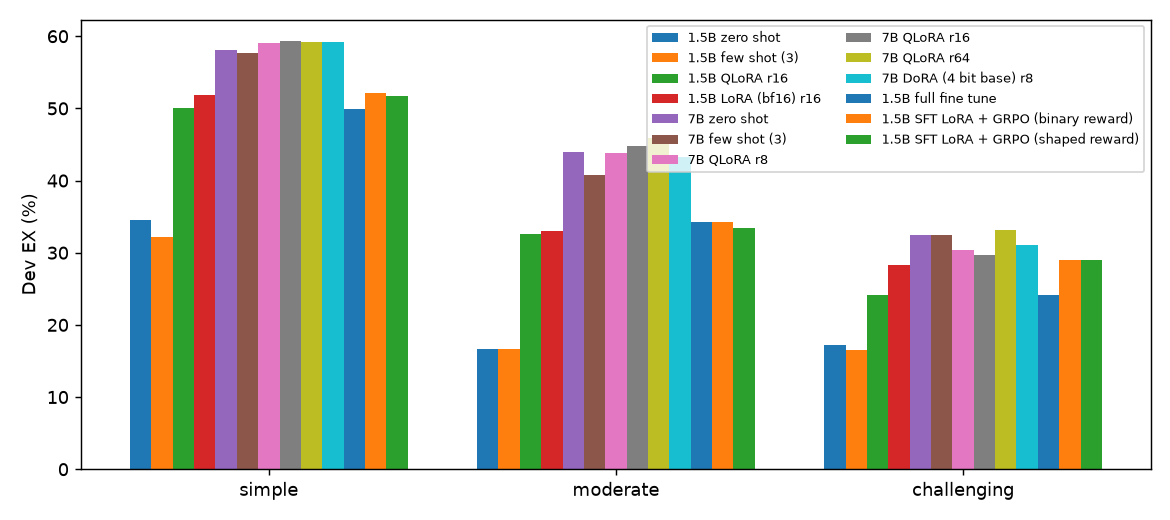
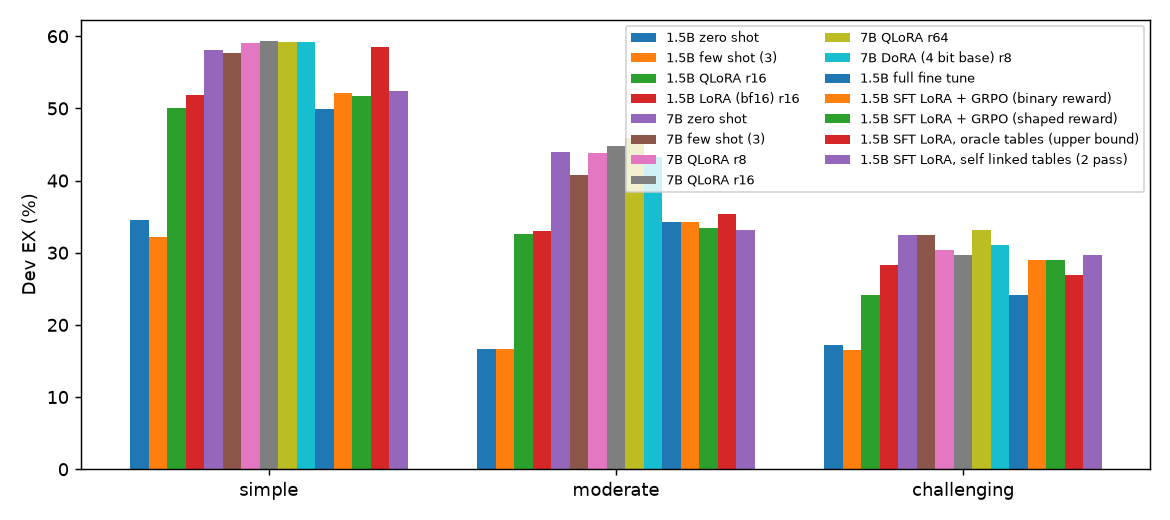
Schema linking: oracle table upper bound (+4.6 dev) and two pass self linking (+0.5 dev, not significant)

diff --git a/querycraft/report.py b/querycraft/report.py
@@ -24,7 +24,7 @@ def _j(p):
 def collect():
     rows = []
     paths = Path("configs").glob("[lrg]*/*.yaml")  # local + rented, then grpo (built on the local SFT run) last
-    for cfg_path in sorted(paths, key=lambda p: (p.parent.name == "grpo", str(p))):
+    for cfg_path in sorted(paths, key=lambda p: (p.parent.name in ("grpo", "linking"), str(p))):
         cfg = load_config(cfg_path)
         d = RUNS_DIR / cfg["name"]
         res, tm, em = _j(d / "results.json"), _j(d / "train_meta.json"), _j(d / "eval_meta.json")
@@ -39,6 +39,10 @@ def _size(model):
 def _label(r):
     c = r["cfg"]
     t = c.get("train")
+    if c["prompt"].get("linking") == "oracle":
+        return f"{_size(c['model'])} SFT LoRA, oracle tables (upper bound)"
+    if c["prompt"].get("linking") == "self":
+        return f"{_size(c['model'])} SFT LoRA, self linked tables (2 pass)"
     if not t:
         return f"{_size(c['model'])} {'few shot (3)' if c['prompt'].get('shots') else 'zero shot'}"
     if t["method"] == "grpo":
@@ -124,7 +128,7 @@ def tables(rows):
                     tp = r["train"].get("trainable_params") if r["train"] else None
                     out.append(f"| {_label(r)} | " + " | ".join(cells) + f" | {tp or 'all'} | {r['train'].get('peak_vram_gb', '') if r['train'] else ''} |")
                 out.append("")
-        zs = {_size(r["cfg"]["model"]): r for r in done if not r["cfg"].get("train") and not r["cfg"]["prompt"].get("shots")}
+        zs = {_size(r["cfg"]["model"]): r for r in done if not r["cfg"].get("train") and not r["cfg"]["prompt"].get("shots") and not r["cfg"]["prompt"].get("linking")}
         ft = [r for r in done if r["cfg"].get("train") and r["cfg"]["train"]["method"] != "grpo" and _size(r["cfg"]["model"]) in zs]
         if ft:
             out.append("### Does fine tuning beat zero shot? Paired against the same size zero shot model\n")
@@ -141,18 +145,24 @@ def tables(rows):
                     cells += [z["res"][split]["ex"], r["res"][split]["ex"], b, a, _sign_p(a, b)]
                 out.append(f"| {_label(r)} | " + " | ".join(map(str, cells)) + " |")
             out.append("")
-        grpo = [r for r in done if (r["cfg"].get("train") or {}).get("method") == "grpo"]
-        if grpo:
-            out.append("### GRPO on top of SFT, paired against its SFT parent (BIRD dev)\n")
-            out.append("Both arms start from the 1.5B LoRA r16 SFT checkpoint and train 125 steps on 1,000 prompts the "
-                       "SFT model solves 1 to 7 times out of 8. p is an exact two sided sign test on the questions "
-                       "where exactly one of the two models is right.\n")
-            out.append("| Model | SFT parent EX | GRPO EX | Only GRPO right | Only SFT right | p |")
-            out.append("|---|---|---|---|---|---|")
-            for r in grpo:
+        built = [r for r in done if r["cfg"]["model"].startswith("runs/")]  # GRPO and schema linking, on the SFT model
+        if built:
+            out.append("### Built on the 1.5B SFT model, paired against it\n")
+            out.append("GRPO arms start from the 1.5B LoRA r16 SFT checkpoint and train 125 steps on 1,000 prompts the "
+                       "SFT model solves 1 to 7 times out of 8. Schema linking runs use the same SFT model unchanged and "
+                       "only change which tables the prompt shows (`docs/plans/schema_linking.md`); the oracle row uses "
+                       "the gold SQL's tables and is an upper bound, not a usable system. p is an exact two sided sign "
+                       "test on the questions where exactly one of the two models is right.\n")
+            out.append("| Model | SFT dev EX | Dev EX | Only new right | Only SFT right | p | "
+                       "SFT held back | Held back | Only new right | Only SFT right | p |")
+            out.append("|---|---|---|---|---|---|---|---|---|---|---|")
+            for r in built:
                 parent = next(x for x in done if x["cfg"]["name"] == Path(r["cfg"]["model"]).parent.parent.name)
-                a, b = _paired(parent, r)
-                out.append(f"| {_label(r)} | {parent['res']['dev']['ex']} | {r['res']['dev']['ex']} | {b} | {a} | {_sign_p(a, b)} |")
+                cells = []
+                for split in ("dev", "heldback"):
+                    a, b = _paired(parent, r, split)
+                    cells += [parent["res"][split]["ex"], r["res"][split]["ex"], b, a, _sign_p(a, b)]
+                out.append(f"| {_label(r)} | " + " | ".join(map(str, cells)) + " |")
             out.append("")
         conf =[(r, json.loads(f.read_text())) for r in done if (f := r["dir"] / "confidence" / "confidence.json").exists()]
         if conf:

diff --git a/querycraft/prompts.py b/querycraft/prompts.py
@@ -18,10 +18,11 @@ def user_message(schema_text, question, evidence):
 
 
 class PromptBuilder:
-    def __init__(self, tokenizer, schema_budget=1280, shots=()):
+    def __init__(self, tokenizer, schema_budget=1280, shots=(), linking=None):
         self.tok = tokenizer
         self.budget = schema_budget
         self.shots = list(shots)  # train examples used as few shot turns
+        self.linking = linking  # "oracle": show only the tables the gold SQL uses (an upper bound, never a real system)
 
     @lru_cache(maxsize=200_000)
     def n_tokens(self, text):
@@ -31,6 +32,10 @@ class PromptBuilder:
         tables = read_schema(ex["db_path"])
         if not pruned:
             return serialize(tables)
+        if self.linking:  # same pruner and token budget, applied to the linked tables only
+            # oracle: the gold SQL's tables (upper bound). self: a first pass prediction's tables + one foreign key hop
+            used = gold_tables(ex["sql"]) if self.linking == "oracle" else fk_hop(tables, gold_tables(ex["link_sql"]))
+            tables = [t for t in tables if t["name"].lower() in used] or tables
         keep, bare = prune(tables, ex["question"], ex.get("evidence", ""), self.n_tokens, self.budget)
         return serialize(tables, keep, bare)
 
@@ -51,6 +56,19 @@ class PromptBuilder:
 
     def prompt_text(self, ex, pruned=True):
         return self.tok.apply_chat_template(self.messages(ex, pruned), tokenize=False, add_generation_prompt=True)
+
+
+def fk_hop(tables, names):
+    """names plus every table one foreign key away (either direction), lower case."""
+    out = set(names)
+    for t in tables:
+        for _, rt, _ in t["fks"]:
+            a, b = t["name"].lower(), rt.lower()
+            if a in names:
+                out.add(b)
+            if b in names:
+                out.add(a)
+    return out
 
 
 def gold_tables(sql):

diff --git a/querycraft/infer.py b/querycraft/infer.py
@@ -79,7 +79,10 @@ def predict(gen: Generator, cfg, split, adapter=None, out_path=None):
     rows = load_split(split)
     if cfg["eval"].get("limit"):
         rows = rows[: cfg["eval"]["limit"]]
-    pb = PromptBuilder(gen.tok, cfg["prompt"]["schema_budget"], pick_shots(cfg))
+    if cfg["prompt"].get("linking") == "self":  # second pass: link to the tables of a first pass prediction
+        first = {(d := json.loads(l))["id"]: d["pred_sql"] for l in open(cfg["prompt"]["link_from"].format(split=split))}
+        rows = [{**ex, "link_sql": first[ex["id"]]} for ex in rows]
+    pb = PromptBuilder(gen.tok, cfg["prompt"]["schema_budget"], pick_shots(cfg), cfg["prompt"].get("linking"))
     prompts = [pb.prompt_text(ex) for ex in rows]
     raw = gen.generate(prompts, adapter)
     preds = [{"id": ex["id"], "db_id": ex["db_id"], "db_path": ex["db_path"], "difficulty": ex["difficulty"],

diff --git a/tests/test_linking.py b/tests/test_linking.py
@@ -1,0 +1,14 @@
+from querycraft.prompts import fk_hop
+
+TABLES = [
+    {"name": "Orders", "fks": [("cust_id", "Customers", "id")]},
+    {"name": "Customers", "fks": []},
+    {"name": "Items", "fks": [("order_id", "Orders", "id")]},
+    {"name": "Unrelated", "fks": []},
+]
+
+
+def test_fk_hop_adds_neighbours_both_directions_only_one_hop():
+    assert fk_hop(TABLES, {"orders"}) == {"orders", "customers", "items"}
+    assert fk_hop(TABLES, {"customers"}) == {"customers", "orders"}  # items is two hops away
+    assert fk_hop(TABLES, set()) == set()

diff --git a/README.md b/README.md
@@ -20,7 +20,11 @@ Every claim below is backed by a paired test or a confidence interval in [Result
    43.94) but HumanEval drops from 72.56 (base) to 34.15, against 68.9 for LoRA.
 5. **Reinforcement learning with an execution reward (GRPO) did not help**, with either a binary or a shaped reward
    (p = 0.49 and 0.94 against its SFT starting point), and the shaped reward was not exploited.
-6. **No sign of memorised BIRD dev.** Every model scores higher on the new held back questions than on dev questions
+6. **Picking the right tables is worth about 4.6 points, and the easy way to pick them does not get it.** Showing
+   the 1.5B SFT model only the tables its gold query uses (an oracle, so an upper bound) lifts dev from 43.94 to
+   48.50 (p < 0.001) and halves wrong table errors. Letting the model's own first answer pick the tables (plus one
+   foreign key hop) gains only 0.5 on dev (p = 0.40), though 8 points on the held back set (p = 0.008, 100 questions).
+7. **No sign of memorised BIRD dev.** Every model scores higher on the new held back questions than on dev questions
    over the same three databases, the opposite of what memorisation would produce. The held back questions are
    probably easier than BIRD's, so this is a one sided check.
 
@@ -104,6 +108,8 @@ columns per database), so the task tests schema understanding as much as SQL syn
 | 1.5B full fine tune | 36.2 | 42.76 [40.31, 45.25] | 47.52 | 49.95 | 34.27 | 24.14 | 65.0 | 54.01 | 34.15 | 52.14 | NVIDIA A100-SXM4-80GB x1 | 0.48 h |
 | 1.5B SFT LoRA + GRPO (binary reward) | 35.2 | 44.52 [42.05, 47.02] | 48.83 | 52.11 | 34.27 | 28.97 | 73.0 | 55.75 | 71.34 | 68.09 | NVIDIA GeForce RTX 4070 Laptop GPU x1 | 4.07 h |
 | 1.5B SFT LoRA + GRPO (shaped reward) | 35.8 | 44.07 [41.6, 46.56] | 48.04 | 51.78 | 33.41 | 28.97 | 73.0 | 54.66 | 68.29 | 67.7 | NVIDIA GeForce RTX 4070 Laptop GPU x1 | 14.62 h |
+| 1.5B SFT LoRA, oracle tables (upper bound) | 45.0 | 48.5 [46.01, 51.0] | 54.17 | 58.49 | 35.34 | 26.9 | 79.0 | 61.61 |  |  |  |  |
+| 1.5B SFT LoRA, self linked tables (2 pass) | 36.6 | 44.46 [41.99, 46.96] | 49.54 | 52.43 | 33.19 | 29.66 | 76.0 | 54.45 |  |  |  |  |
 
 Held back EX vs dev EX on the same three databases is the contamination check: a model that memorised BIRD dev would score clearly higher on dev questions than on new questions over the same schemas.
 
@@ -124,6 +130,8 @@ Held back EX vs dev EX on the same three databases is the contamination check: a
 | 1.5B full fine tune | 8 | 244 | 247 | 167 | 83 | 1 | 128 |
 | 1.5B SFT LoRA + GRPO (binary reward) | 3 | 263 | 239 | 166 | 71 | 0 | 109 |
 | 1.5B SFT LoRA + GRPO (shaped reward) | 2 | 235 | 276 | 165 | 68 | 0 | 112 |
+| 1.5B SFT LoRA, oracle tables (upper bound) | 3 | 116 | 241 | 185 | 90 | 0 | 155 |
+| 1.5B SFT LoRA, self linked tables (2 pass) | 4 | 244 | 254 | 148 | 79 | 0 | 123 |
 
 ### Checkpoint selection on validation (EX %, chosen in bold)
 
@@ -156,14 +164,16 @@ p is an exact two sided sign test on the questions where exactly one of the two 
 | 7B DoRA (4 bit base) r8 | 51.43 | 51.69 | 114 | 110 | 0.841 | 88.0 | 83.0 | 4 | 9 | 0.267 |
 | 1.5B full fine tune | 27.44 | 42.76 | 323 | 88 | <0.001 | 61.0 | 65.0 | 19 | 15 | 0.608 |
 
-### GRPO on top of SFT, paired against its SFT parent (BIRD dev)
+### Built on the 1.5B SFT model, paired against it
 
-Both arms start from the 1.5B LoRA r16 SFT checkpoint and train 125 steps on 1,000 prompts the SFT model solves 1 to 7 times out of 8. p is an exact two sided sign test on the questions where exactly one of the two models is right.
+GRPO arms start from the 1.5B LoRA r16 SFT checkpoint and train 125 steps on 1,000 prompts the SFT model solves 1 to 7 times out of 8. Schema linking runs use the same SFT model unchanged and only change which tables the prompt shows (`docs/plans/schema_linking.md`); the oracle row uses the gold SQL's tables and is an upper bound, not a usable system. p is an exact two sided sign test on the questions where exactly one of the two models is right.
 
-| Model | SFT parent EX | GRPO EX | Only GRPO right | Only SFT right | p |
-|---|---|---|---|---|---|
-| 1.5B SFT LoRA + GRPO (binary reward) | 43.94 | 44.52 | 73 | 64 | 0.494 |
-| 1.5B SFT LoRA + GRPO (shaped reward) | 43.94 | 44.07 | 81 | 79 | 0.937 |
+| Model | SFT dev EX | Dev EX | Only new right | Only SFT right | p | SFT held back | Held back | Only new right | Only SFT right | p |
+|---|---|---|---|---|---|---|---|---|---|---|
+| 1.5B SFT LoRA + GRPO (binary reward) | 43.94 | 44.52 | 73 | 64 | 0.494 | 68.0 | 73.0 | 10 | 5 | 0.302 |
+| 1.5B SFT LoRA + GRPO (shaped reward) | 43.94 | 44.07 | 81 | 79 | 0.937 | 68.0 | 73.0 | 7 | 2 | 0.18 |
+| 1.5B SFT LoRA, oracle tables (upper bound) | 43.94 | 48.5 | 134 | 64 | <0.001 | 68.0 | 79.0 | 14 | 3 | 0.013 |
+| 1.5B SFT LoRA, self linked tables (2 pass) | 43.94 | 44.46 | 39 | 31 | 0.403 | 68.0 | 76.0 | 8 | 0 | 0.008 |
 
 ### Knowing when it is wrong: voting and abstention (BIRD dev)
 

diff --git a/docs/results.md b/docs/results.md
@@ -15,6 +15,8 @@
 | 1.5B full fine tune | 36.2 | 42.76 [40.31, 45.25] | 47.52 | 49.95 | 34.27 | 24.14 | 65.0 | 54.01 | 34.15 | 52.14 | NVIDIA A100-SXM4-80GB x1 | 0.48 h |
 | 1.5B SFT LoRA + GRPO (binary reward) | 35.2 | 44.52 [42.05, 47.02] | 48.83 | 52.11 | 34.27 | 28.97 | 73.0 | 55.75 | 71.34 | 68.09 | NVIDIA GeForce RTX 4070 Laptop GPU x1 | 4.07 h |
 | 1.5B SFT LoRA + GRPO (shaped reward) | 35.8 | 44.07 [41.6, 46.56] | 48.04 | 51.78 | 33.41 | 28.97 | 73.0 | 54.66 | 68.29 | 67.7 | NVIDIA GeForce RTX 4070 Laptop GPU x1 | 14.62 h |
+| 1.5B SFT LoRA, oracle tables (upper bound) | 45.0 | 48.5 [46.01, 51.0] | 54.17 | 58.49 | 35.34 | 26.9 | 79.0 | 61.61 |  |  |  |  |
+| 1.5B SFT LoRA, self linked tables (2 pass) | 36.6 | 44.46 [41.99, 46.96] | 49.54 | 52.43 | 33.19 | 29.66 | 76.0 | 54.45 |  |  |  |  |
 
 Held back EX vs dev EX on the same three databases is the contamination check: a model that memorised BIRD dev would score clearly higher on dev questions than on new questions over the same schemas.
 
@@ -35,6 +37,8 @@ Held back EX vs dev EX on the same three databases is the contamination check: a
 | 1.5B full fine tune | 8 | 244 | 247 | 167 | 83 | 1 | 128 |
 | 1.5B SFT LoRA + GRPO (binary reward) | 3 | 263 | 239 | 166 | 71 | 0 | 109 |
 | 1.5B SFT LoRA + GRPO (shaped reward) | 2 | 235 | 276 | 165 | 68 | 0 | 112 |
+| 1.5B SFT LoRA, oracle tables (upper bound) | 3 | 116 | 241 | 185 | 90 | 0 | 155 |
+| 1.5B SFT LoRA, self linked tables (2 pass) | 4 | 244 | 254 | 148 | 79 | 0 | 123 |
 
 ### Checkpoint selection on validation (EX %, chosen in bold)
 
@@ -67,14 +71,16 @@ p is an exact two sided sign test on the questions where exactly one of the two 
 | 7B DoRA (4 bit base) r8 | 51.43 | 51.69 | 114 | 110 | 0.841 | 88.0 | 83.0 | 4 | 9 | 0.267 |
 | 1.5B full fine tune | 27.44 | 42.76 | 323 | 88 | <0.001 | 61.0 | 65.0 | 19 | 15 | 0.608 |
 
-### GRPO on top of SFT, paired against its SFT parent (BIRD dev)
+### Built on the 1.5B SFT model, paired against it
 
-Both arms start from the 1.5B LoRA r16 SFT checkpoint and train 125 steps on 1,000 prompts the SFT model solves 1 to 7 times out of 8. p is an exact two sided sign test on the questions where exactly one of the two models is right.
+GRPO arms start from the 1.5B LoRA r16 SFT checkpoint and train 125 steps on 1,000 prompts the SFT model solves 1 to 7 times out of 8. Schema linking runs use the same SFT model unchanged and only change which tables the prompt shows (`docs/plans/schema_linking.md`); the oracle row uses the gold SQL's tables and is an upper bound, not a usable system. p is an exact two sided sign test on the questions where exactly one of the two models is right.
 
-| Model | SFT parent EX | GRPO EX | Only GRPO right | Only SFT right | p |
-|---|---|---|---|---|---|
-| 1.5B SFT LoRA + GRPO (binary reward) | 43.94 | 44.52 | 73 | 64 | 0.494 |
-| 1.5B SFT LoRA + GRPO (shaped reward) | 43.94 | 44.07 | 81 | 79 | 0.937 |
+| Model | SFT dev EX | Dev EX | Only new right | Only SFT right | p | SFT held back | Held back | Only new right | Only SFT right | p |
+|---|---|---|---|---|---|---|---|---|---|---|
+| 1.5B SFT LoRA + GRPO (binary reward) | 43.94 | 44.52 | 73 | 64 | 0.494 | 68.0 | 73.0 | 10 | 5 | 0.302 |
+| 1.5B SFT LoRA + GRPO (shaped reward) | 43.94 | 44.07 | 81 | 79 | 0.937 | 68.0 | 73.0 | 7 | 2 | 0.18 |
+| 1.5B SFT LoRA, oracle tables (upper bound) | 43.94 | 48.5 | 134 | 64 | <0.001 | 68.0 | 79.0 | 14 | 3 | 0.013 |
+| 1.5B SFT LoRA, self linked tables (2 pass) | 43.94 | 44.46 | 39 | 31 | 0.403 | 68.0 | 76.0 | 8 | 0 | 0.008 |
 
 ### Knowing when it is wrong: voting and abstention (BIRD dev)
 

diff --git a/docs/plans/schema_linking.md b/docs/plans/schema_linking.md
@@ -1,0 +1,44 @@
+# Plan: schema linking (pick the tables before writing the SQL)
+
+Status: step 1 passed the gate; self linking (no training) evaluated; trained selector (step 3) next.
+
+## Step 1 result: oracle upper bound
+
+Showing the SFT LoRA r16 model only its gold SQL's tables (same pruner, same 1,280 token budget) lifts dev EX from
+43.94 to 48.50 (134 newly right, 64 newly wrong, p < 0.001) and held back from 68 to 79 (p = 0.013). Val: 33.6 to
+45.0. `wrong_table` errors on dev halve (241 to 116). The gate (3 points, p < 0.05) is passed.
+
+## Step 3, cheaper version first: self linking
+
+Before training a separate selector: the SFT model's own greedy prediction (already on disk) picks the tables, plus
+one foreign key hop, and a second pass writes the SQL over only those. On val this keeps every gold table for 96% of
+questions while showing 9.3 of 42 tables on average (dev: 97.4%, 5.1 of 7.1). The hop rule was fixed before looking
+at any accuracy.
+
+Result: val 33.6 to 36.6, dev 43.94 to 44.46 (39 newly right, 31 newly wrong, p = 0.40), held back 68 to 76
+(8 newly right, 0 newly wrong, p = 0.008). Wrong table errors on dev do not fall (241 to 244): the first pass's own
+mistakes stay in the schema. Dev databases average 7 tables, so removing about 2 changes little; the oracle gains by
+showing about 2 tables. A selector needs much higher precision than the first pass, which is what step 3 trains for.
+
+## Why
+
+Schema errors dominate: for the 1.5B LoRA r16 model, `wrong_table` (241) and `wrong_column` (268) are 509 of its
+860 wrong dev answers. The existing pruner already keeps the gold tables in the prompt for 99.35% of dev questions
+(`data/processed/prompt_stats.json`), so these errors come from the model choosing among tables it can see,
+not from missing tables. The question is whether a smaller, more focused schema helps it choose.
+
+## Steps
+
+| Step | What | Cost |
+|---|---|---|
+| 1. Oracle upper bound | The SFT LoRA r16 model, shown only the tables its gold SQL uses (`configs/linking/50_*`) | about 30 min eval |
+| 2. Gate | Continue only if the oracle beats the SFT model by at least 3 dev points (paired test p < 0.05). Otherwise stop and report the oracle as the ceiling | none |
+| 3. Table selector | The same 1.5B model, LoRA fine tuned on train to list the tables a question needs (targets from the gold SQL); recall and precision on val | about 2 h |
+| 4. Two pass system | Selector picks tables (plus one foreign key hop for safety), SQL model writes the query over only those tables; SQL model retrained on that prompt format | about 3 h |
+| 5. Report | Paired test against the SFT model, selector recall, error categories | 0.5 h |
+
+## Guardrails
+
+* The oracle uses gold labels at inference. It is reported only as an upper bound, labelled as such, never as a result.
+* Every choice (threshold, which hop rule, which checkpoint) is made on val; dev and held back are only evaluated.
+* Laptop only. A 7B version waits for the Modal credit cycle and the user's go ahead.
